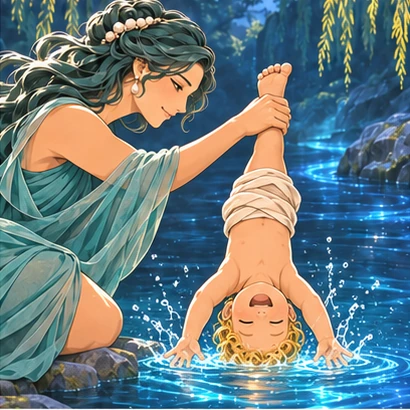
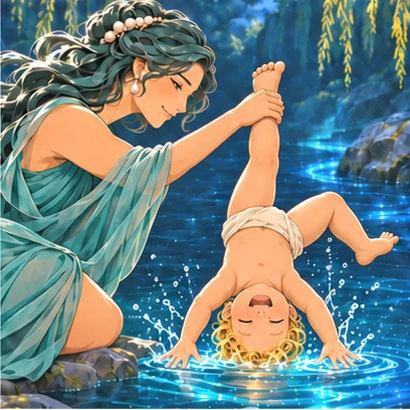
Replace heel-dipping scenes with fully visible two-leg anatomy

diff --git a/index.html b/index.html
@@ -1,4 +1,4 @@
 <!doctype html>
 <html lang="en" data-story-id="achilles-magic-heel"><head><meta charset="utf-8"><meta name="viewport" content="width=device-width,initial-scale=1,viewport-fit=cover"><meta name="theme-color" content="#f6f0e4"><meta name="description" content="Read Achilles: The Boy with the Magic Heel. A complete ten-chapter Greek myth adventure, with reflection and discussion questions."><title>Achilles · The Boy with the Magic Heel</title><link rel="manifest" href="./manifest.webmanifest"><link rel="icon" href="./assets/app-icon-192.png"><link rel="apple-touch-icon" href="./assets/app-icon-192.png"><link rel="stylesheet" href="./style.css"><script src="./app.js" defer></script><script src="./pwa.js" defer></script></head><body>
 <a class="skip" href="#story">이야기로 바로 가기</a><header id="floating-reader"><a class="brand" href="#">A<span> / </span>READING ROOM</a><div class="tools"><details id="chapter-menu"><summary>목차 <span>⌄</span></summary><nav aria-label="장별 목차"><a href="#chapter-1"><span>01</span> Chapter 1. A Very Special Baby</a><a href="#chapter-2"><span>02</span> Chapter 2. The Fastest Boy in Greece</a><a href="#chapter-3"><span>03</span> Chapter 3. A Friend Named Patroclus</a><a href="#chapter-4"><span>04</span> Chapter 4. A Fight with a King</a><a href="#chapter-5"><span>05</span> Chapter 5. The Sad News</a><a href="#chapter-6"><span>06</span> Chapter 6. A Broken Heart</a><a href="#chapter-7"><span>07</span> Chapter 7. The New Armor</a><a href="#chapter-8"><span>08</span> Chapter 8. Achilles and Hector</a><a href="#chapter-9"><span>09</span> Chapter 9. The One Weak Spot</a><a href="#chapter-10"><span>10</span> Chapter 10. A Hero to Remember</a><a href="#chapter-11"><span>11</span> What Can We Learn from Achilles?</a><a href="#chapter-12"><span>12</span> Let&#x27;s Talk! – A Little Chat with Your Teacher</a></nav></details><div class="font-tools"><button id="smaller" aria-label="글자 작게">A−</button><label class="sr-only" for="font-size">글자 크기</label><input id="font-size" type="range" min="14" max="50" value="19"><output id="font-value" for="font-size">19pt</output><button id="larger" aria-label="글자 크게">A+</button></div><button id="theme" aria-label="어두운 테마로 전환">◐</button><button id="install-app">설치</button></div><div class="progress" aria-hidden="true"><span id="progress"></span></div></header>
-<main><div class="cover"><div class="eyebrow">THE MYTHS WE REMEMBER <span>01 / GREECE</span></div><div class="cover-inner"><div class="medallion" aria-hidden="true">✦</div><p class="kicker">A GREEK MYTH ADVENTURE</p><h1>ACHILLES</h1><p class="subtitle">The Boy with<br>the Magic Heel</p><div class="ornament" aria-hidden="true">── ◇ ──</div><p class="intro">A story of strength, friendship,<br>and the heart of a hero.</p><a class="start" href="#chapter-1">이야기 읽기 <span>↓</span></a><a id="resume" hidden>읽던 곳에서 계속 읽기 →</a></div><div class="cover-foot"><span>10 CHAPTERS + REFLECTIONS</span><span>SCROLL TO BEGIN ↓</span></div></div><article id="story" aria-label="ACHILLES: The Boy with the Magic Heel"><section class="chapter" id="chapter-1"><div class="chapter-label">CHAPTER 01</div><h2>Chapter 1. A Very Special Baby</h2><p class="" id="ch01-p001">Long, long ago, in a land far away, there lived a king named Peleus.</p><figure class="story-scene" id="ch01-sc01"><img src="./assets/ch01-sc01.webp" alt="King Peleus in his ancient Greek palace, calm establishing portrait." width="410" height="410" loading="lazy" decoding="async"></figure><p class="" id="ch01-p002">One day, he had a baby boy.</p><figure class="story-scene" id="ch01-sc02"><img src="./assets/ch01-sc02.webp" alt="Peleus gently cradles his newborn son Achilles in an ivory wrap." width="410" height="410" loading="lazy" decoding="async"></figure><p class="" id="ch01-p003">His name was Achilles.</p><p class="" id="ch01-p004">But Achilles was not an ordinary baby.</p><p class="" id="ch01-p005">His dad was a king. His mom was Thetis, a sea goddess.</p><figure class="story-scene" id="ch01-sc03"><img src="./assets/ch01-sc03.webp" alt="Thetis with flowing dark teal hair and turquoise dress holds baby Achilles beside King Peleus." width="410" height="410" loading="lazy" decoding="async"></figure><p class="" id="ch01-p006">&quot;Look at my baby!&quot; said Thetis. &quot;He is so special!&quot;</p><figure class="story-scene" id="ch01-sc04"><img src="./assets/ch01-sc04.webp" alt="Thetis smiles lovingly down at her special golden-curled baby, close intimate view." width="410" height="410" loading="lazy" decoding="async"></figure><p class="" id="ch01-p007">She wanted her son to be safe and strong.</p><figure class="story-scene" id="ch01-sc05"><img src="./assets/ch01-sc05.webp" alt="Thetis looks protectively at her sleeping baby, determined to keep him safe." width="410" height="410" loading="lazy" decoding="async"></figure><p class="" id="ch01-p008">So, one day, she took him to a magic river called the River Styx.</p><figure class="story-scene" id="ch01-sc06"><img src="./assets/ch01-sc06.webp" alt="Thetis carries baby Achilles along the rocky bank of the mysterious glowing River Styx." width="410" height="410" loading="lazy" decoding="async"></figure><p class="" id="ch01-p009">&quot;This water will keep you safe,&quot; she said.</p><figure class="story-scene" id="ch01-sc07"><img src="./assets/ch01-sc07.webp" alt="At the river edge Thetis kneels with the baby, looks at the magical water with hope." width="410" height="410" loading="lazy" decoding="async"></figure><p class="" id="ch01-p010">She held Achilles by one heel and dipped him into the water.</p><p class="" id="ch01-p011">Splash!</p><p class="" id="ch01-p012">His body became safe from harm.</p><p class="" id="ch01-p013">But there was one little problem.</p><p class="" id="ch01-p014">The heel she held did not touch the magic water.</p><p class="" id="ch01-p015">It was his one weak spot.</p><p class="" id="ch01-p016">Thetis did not know that this tiny spot would be very important one day.</p></section><section class="chapter" id="chapter-2"><div class="chapter-label">CHAPTER 02</div><h2>Chapter 2. The Fastest Boy in Greece</h2><p class="" id="ch02-p001">Achilles grew bigger and stronger every day.</p><p class="" id="ch02-p002">He could run very fast.</p><p class="" id="ch02-p003">He could jump high.</p><p class="" id="ch02-p004">He could fight better than anyone else.</p><p class="" id="ch02-p005">&quot;Wow! He is so fast!&quot; people said.</p><p class="" id="ch02-p006">&quot;Look at him go!&quot;</p><p class="" id="ch02-p007">Achilles loved to win.</p><p class="" id="ch02-p008">He trained every day. He wanted to be the best.</p><p class="" id="ch02-p009">Soon, everyone knew his name.</p><p class="" id="ch02-p010">He became the greatest fighter in the Greek army.</p><p class="" id="ch02-p011">But Achilles had something even more special than his strength.</p><p class="" id="ch02-p012">He had a big heart.</p><p class="" id="ch02-p013">And he had a very good friend.</p></section><section class="chapter" id="chapter-3"><div class="chapter-label">CHAPTER 03</div><h2>Chapter 3. A Friend Named Patroclus</h2><p class="" id="ch03-p001">His friend&#x27;s name was Patroclus.</p><p class="" id="ch03-p002">They played together.</p><p class="" id="ch03-p003">They trained together.</p><p class="" id="ch03-p004">They laughed together.</p><p class="" id="ch03-p005">When Achilles was happy, Patroclus was happy, too.</p><p class="" id="ch03-p006">When Patroclus had a bad day, Achilles stayed by his side.</p><p class="" id="ch03-p007">&quot;You&#x27;re my best friend,&quot; said Patroclus.</p><p class="" id="ch03-p008">&quot;And you&#x27;re mine!&quot; said Achilles.</p><p class="" id="ch03-p009">They were like two brothers.</p><p class="" id="ch03-p010">One day, a big war began.</p><p class="" id="ch03-p011">It was called the Trojan War.</p><p class="" id="ch03-p012">The Greeks went to fight the people of Troy.</p><p class="" id="ch03-p013">Achilles and Patroclus went together.</p><p class="" id="ch03-p014">&quot;Stay close to me,&quot; said Achilles.</p><p class="" id="ch03-p015">&quot;Don&#x27;t worry!&quot; said Patroclus. &quot;We can do this!&quot;</p><p class="" id="ch03-p016">But this war would change their lives forever.</p></section><section class="chapter" id="chapter-4"><div class="chapter-label">CHAPTER 04</div><h2>Chapter 4. A Fight with a King</h2><p class="" id="ch04-p001">The Greek army had a king named Agamemnon.</p><p class="" id="ch04-p002">He was the leader of the army.</p><p class="" id="ch04-p003">But one day, he made Achilles very angry.</p><p class="" id="ch04-p004">He took a prize that belonged to Achilles.</p><p class="" id="ch04-p005">&quot;That is not fair!&quot; said Achilles.</p><p class="" id="ch04-p006">&quot;I will not fight anymore!&quot;</p><p class="" id="ch04-p007">He walked away from the battle.</p><p class="" id="ch04-p008">The other soldiers were worried.</p><p class="" id="ch04-p009">&quot;How can we win without Achilles?&quot; they asked.</p><p class="" id="ch04-p010">But Achilles would not listen.</p><p class="" id="ch04-p011">He was too angry.</p><p class="" id="ch04-p012">He sat in his tent and stayed away from the fight.</p><p class="" id="ch04-p013">Sometimes, even the strongest person can make a bad choice when angry.</p></section><section class="chapter" id="chapter-5"><div class="chapter-label">CHAPTER 05</div><h2>Chapter 5. The Sad News</h2><p class="" id="ch05-p001">The war went on.</p><p class="" id="ch05-p002">The Greeks were having a hard time.</p><p class="" id="ch05-p003">Patroclus went to see Achilles.</p><p class="" id="ch05-p004">&quot;Please,&quot; he said. &quot;Our friends need help.&quot;</p><p class="" id="ch05-p005">Achilles looked at him.</p><p class="" id="ch05-p006">&quot;I am still too angry to fight,&quot; he said.</p><p class="" id="ch05-p007">&quot;Then let me go,&quot; said Patroclus.</p><p class="" id="ch05-p008">He asked to wear Achilles&#x27; armor.</p><p class="" id="ch05-p009">Achilles thought for a moment.</p><p class="" id="ch05-p010">&quot;Be careful,&quot; he said. &quot;Come back safe.&quot;</p><p class="" id="ch05-p011">Patroclus put on the shiny armor.</p><p class="" id="ch05-p012">He went to the battle.</p><p class="" id="ch05-p013">But something terrible happened.</p><p class="" id="ch05-p014">A Trojan hero named Hector saw him.</p><p class="" id="ch05-p015">Hector thought Patroclus was Achilles.</p><p class="" id="ch05-p016">They fought.</p><p class="" id="ch05-p017">And Patroclus did not come back.</p><p class="" id="ch05-p018">He was gone.</p></section><section class="chapter" id="chapter-6"><div class="chapter-label">CHAPTER 06</div><h2>Chapter 6. A Broken Heart</h2><p class="" id="ch06-p001">When Achilles heard the news, he could not believe it.</p><p class="" id="ch06-p002">&quot;Patroclus? My best friend?&quot;</p><p class="" id="ch06-p003">He felt very sad.</p><p class="" id="ch06-p004">He cried and cried.</p><p class="" id="ch06-p005">&quot;My friend is gone,&quot; he said.</p><p class="" id="ch06-p006">He was angry with Hector.</p><p class="" id="ch06-p007">He was angry with himself, too.</p><p class="" id="ch06-p008">&quot;Why did I let him go?&quot; he asked.</p><p class="" id="ch06-p009">&quot;Why did I stay here?&quot;</p><p class="" id="ch06-p010">Achilles knew he could not bring his friend back.</p><p class="" id="ch06-p011">But he wanted to face Hector.</p><p class="" id="ch06-p012">This time, he would go back to the battle.</p></section><section class="chapter" id="chapter-7"><div class="chapter-label">CHAPTER 07</div><h2>Chapter 7. The New Armor</h2><p class="" id="ch07-p001">Achilles needed new armor.</p><p class="" id="ch07-p002">His old armor was gone.</p><p class="" id="ch07-p003">His mother, Thetis, went to ask Hephaestus for help.</p><p class="" id="ch07-p004">Hephaestus was the god who made things with fire and metal.</p><p class="" id="ch07-p005">He worked in a hot, bright forge.</p><p class="" id="ch07-p006">Clang! Clang! Clang!</p><p class="" id="ch07-p007">He made a new helmet.</p><p class="" id="ch07-p008">He made strong armor.</p><p class="" id="ch07-p009">And he made a beautiful shield.</p><p class="" id="ch07-p010">The shield was amazing!</p><p class="" id="ch07-p011">It showed the sun and the stars.</p><p class="" id="ch07-p012">It showed people dancing and working.</p><p class="" id="ch07-p013">It showed farms, towns, and happy families.</p><p class="" id="ch07-p014">It was like a whole world on one shield!</p><p class="" id="ch07-p015">&quot;Thank you, Mom,&quot; said Achilles.</p><p class="" id="ch07-p016">He put on his new armor.</p><p class="" id="ch07-p017">He was ready to fight.</p></section><section class="chapter" id="chapter-8"><div class="chapter-label">CHAPTER 08</div><h2>Chapter 8. Achilles and Hector</h2><p class="" id="ch08-p001">Outside the walls of Troy, Hector was waiting.</p><p class="" id="ch08-p002">He was a brave prince of Troy.</p><p class="" id="ch08-p003">He was a great fighter, too.</p><p class="" id="ch08-p004">Achilles looked at Hector.</p><p class="" id="ch08-p005">&quot;You took my friend away!&quot; he shouted.</p><p class="" id="ch08-p006">Hector stood tall.</p><p class="" id="ch08-p007">&quot;I will not run away!&quot; he said.</p><p class="" id="ch08-p008">The two heroes began to fight.</p><p class="" id="ch08-p009">Their swords went CLANG!</p><p class="" id="ch08-p010">Their feet moved fast.</p><p class="" id="ch08-p011">The fight was hard.</p><p class="" id="ch08-p012">At last, Achilles won.</p><p class="" id="ch08-p013">Hector fell.</p><p class="" id="ch08-p014">Achilles was still full of anger.</p><p class="" id="ch08-p015">He tied Hector&#x27;s body to his chariot and dragged it around the city.</p><p class="" id="ch08-p016">It was a sad and cruel end to the fight.</p><p class="" id="ch08-p017">Achilles had won, but his heart was not happy.</p><p class="" id="ch08-p018">His anger had taken control.</p></section><section class="chapter" id="chapter-9"><div class="chapter-label">CHAPTER 09</div><h2>Chapter 9. The One Weak Spot</h2><p class="" id="ch09-p001">The war was not over.</p><p class="" id="ch09-p002">Achilles was still the strongest fighter.</p><p class="" id="ch09-p003">But every hero has a story.</p><p class="" id="ch09-p004">And every story has an ending.</p><p class="" id="ch09-p005">One day, Paris, a prince of Troy, took his bow.</p><p class="" id="ch09-p006">He saw Achilles.</p><p class="" id="ch09-p007">He pulled back the string.</p><p class="" id="ch09-p008">Whoosh!</p><p class="" id="ch09-p009">The arrow flew through the air.</p><p class="" id="ch09-p010">It hit Achilles in the heel.</p><p class="" id="ch09-p011">His one weak spot!</p><p class="" id="ch09-p012">The magic river had made his body safe, but not that small part.</p><p class="" id="ch09-p013">Achilles fell.</p><p class="" id="ch09-p014">The great hero was gone.</p><p class="" id="ch09-p015">People were very sad.</p><p class="" id="ch09-p016">They remembered his strength.</p><p class="" id="ch09-p017">They remembered his brave heart.</p><p class="" id="ch09-p018">And they remembered his one weak spot.</p><p class="" id="ch09-p019">That is why we still say &quot;Achilles&#x27; heel&quot; today.</p><p class="" id="ch09-p020">It means a weak spot that someone has.</p></section><section class="chapter" id="chapter-10"><div class="chapter-label">CHAPTER 10</div><h2>Chapter 10. A Hero to Remember</h2><p class="" id="ch10-p001">Achilles knew that he had two choices.</p><p class="" id="ch10-p002">He could stay away from the war.</p><p class="" id="ch10-p003">He could live a long and quiet life.</p><p class="" id="ch10-p004">Or he could fight and become a great hero.</p><p class="" id="ch10-p005">But he might die young.</p><p class="" id="ch10-p006">Achilles chose to fight.</p><p class="" id="ch10-p007">He wanted people to remember his name.</p><p class="" id="ch10-p008">And they did!</p><p class="" id="ch10-p009">Even today, people tell stories about Achilles.</p><p class="" id="ch10-p010">They talk about his speed.</p><p class="" id="ch10-p011">They talk about his strength.</p><p class="" id="ch10-p012">They talk about his best friend.</p><p class="" id="ch10-p013">They talk about his anger and his brave heart.</p><p class="" id="ch10-p014">But most of all, they remember that even the greatest hero was not perfect.</p><p class="" id="ch10-p015">And that is what makes his story special.</p><p class="" id="ch10-p016">The End.</p></section><section class="chapter" id="chapter-11"><div class="chapter-label">AFTER THE STORY</div><h2>What Can We Learn from Achilles?</h2><p class="" id="ch11-p001">Achilles was strong, but he also made mistakes.</p><p class="" id="ch11-p002">His story teaches us some big lessons.</p><p class="lesson" id="ch11-p003">1. Friends are special.</p><p class="" id="ch11-p004">A good friend stays with you in good times and bad times. We should care for our friends and help them when they need us.</p><p class="lesson" id="ch11-p005">2. Anger can cause trouble.</p><p class="" id="ch11-p006">Achilles was so angry that he stopped helping his friends. Before we act, we should stop, take a breath, and think.</p><p class="lesson" id="ch11-p007">3. Nobody is perfect.</p><p class="" id="ch11-p008">Even the strongest hero has a weak spot. We all have things we are good at and things we need to learn.</p><p class="lesson" id="ch11-p009">4. Being brave does not mean being perfect.</p><p class="" id="ch11-p010">A brave person can feel sad, scared, or upset. What matters is learning from mistakes and trying to do better.</p></section><section class="chapter" id="chapter-12"><div class="chapter-label">AFTER THE STORY</div><h2>Let&#x27;s Talk! – A Little Chat with Your Teacher</h2><p class="lesson" id="ch12-p001">1. About Friendship</p><p class="question" id="ch12-p002">- Why was Patroclus special to Achilles?</p><p class="question" id="ch12-p003">- What makes someone a good friend?</p><p class="question" id="ch12-p004">- How can you help a friend who feels sad?</p><p class="lesson" id="ch12-p005">2. About Feelings</p><p class="question" id="ch12-p006">- Why was Achilles angry with Agamemnon?</p><p class="question" id="ch12-p007">- Have you ever been so angry that you wanted to stop playing?</p><p class="question" id="ch12-p008">- What can you do when you feel angry?</p><p class="lesson" id="ch12-p009">3. About Being a Hero</p><p class="question" id="ch12-p010">- Was Achilles always right?</p><p class="question" id="ch12-p011">- Can a person be brave and still make mistakes?</p><p class="question" id="ch12-p012">- What makes someone a real hero?</p><p class="lesson" id="ch12-p013">4. Imagine You Are Achilles!</p><p class="question" id="ch12-p014">- Would you choose a long, quiet life or a short, exciting life?</p><p class="question" id="ch12-p015">- If you had a magic shield, what would you put on it?</p><p class="question" id="ch12-p016">- If you could have one superpower, what would it be?</p></section></article><div class="closing"><span>✦</span><p>Every hero has a story.<br>Thank you for reading.</p><a href="#">처음으로 ↑</a></div></main><footer>ACHILLES · A GREEK MYTH ADVENTURE<br><small>제공된 영어 원문 전문</small></footer><dialog id="install-help" aria-labelledby="install-title"><h2 id="install-title">독서 앱으로 설치</h2><p id="install-instructions"></p><p>설치 후 홈 화면의 아이콘으로 열어 주세요.</p><button id="read-fullscreen" hidden>전체화면으로 읽기</button><form method="dialog"><button>닫기</button></form></dialog></body></html>
+<main><div class="cover"><div class="eyebrow">THE MYTHS WE REMEMBER <span>01 / GREECE</span></div><div class="cover-inner"><div class="medallion" aria-hidden="true">✦</div><p class="kicker">A GREEK MYTH ADVENTURE</p><h1>ACHILLES</h1><p class="subtitle">The Boy with<br>the Magic Heel</p><div class="ornament" aria-hidden="true">── ◇ ──</div><p class="intro">A story of strength, friendship,<br>and the heart of a hero.</p><a class="start" href="#chapter-1">이야기 읽기 <span>↓</span></a><a id="resume" hidden>읽던 곳에서 계속 읽기 →</a></div><div class="cover-foot"><span>10 CHAPTERS + REFLECTIONS</span><span>SCROLL TO BEGIN ↓</span></div></div><article id="story" aria-label="ACHILLES: The Boy with the Magic Heel"><section class="chapter" id="chapter-1"><div class="chapter-label">CHAPTER 01</div><h2>Chapter 1. A Very Special Baby</h2><p class="" id="ch01-p001">Long, long ago, in a land far away, there lived a king named Peleus.</p><figure class="story-scene" id="ch01-sc01"><img src="./assets/ch01-sc01.webp" alt="King Peleus in his ancient Greek palace, calm establishing portrait." width="410" height="410" loading="lazy" decoding="async"></figure><p class="" id="ch01-p002">One day, he had a baby boy.</p><figure class="story-scene" id="ch01-sc02"><img src="./assets/ch01-sc02.webp" alt="Peleus gently cradles his newborn son Achilles in an ivory wrap." width="410" height="410" loading="lazy" decoding="async"></figure><p class="" id="ch01-p003">His name was Achilles.</p><p class="" id="ch01-p004">But Achilles was not an ordinary baby.</p><p class="" id="ch01-p005">His dad was a king. His mom was Thetis, a sea goddess.</p><figure class="story-scene" id="ch01-sc03"><img src="./assets/ch01-sc03.webp" alt="Thetis with flowing dark teal hair and turquoise dress holds baby Achilles beside King Peleus." width="410" height="410" loading="lazy" decoding="async"></figure><p class="" id="ch01-p006">&quot;Look at my baby!&quot; said Thetis. &quot;He is so special!&quot;</p><figure class="story-scene" id="ch01-sc04"><img src="./assets/ch01-sc04.webp" alt="Thetis smiles lovingly down at her special golden-curled baby, close intimate view." width="410" height="410" loading="lazy" decoding="async"></figure><p class="" id="ch01-p007">She wanted her son to be safe and strong.</p><figure class="story-scene" id="ch01-sc05"><img src="./assets/ch01-sc05.webp" alt="Thetis looks protectively at her sleeping baby, determined to keep him safe." width="410" height="410" loading="lazy" decoding="async"></figure><p class="" id="ch01-p008">So, one day, she took him to a magic river called the River Styx.</p><figure class="story-scene" id="ch01-sc06"><img src="./assets/ch01-sc06.webp" alt="Thetis carries baby Achilles along the rocky bank of the mysterious glowing River Styx." width="410" height="410" loading="lazy" decoding="async"></figure><p class="" id="ch01-p009">&quot;This water will keep you safe,&quot; she said.</p><figure class="story-scene" id="ch01-sc07"><img src="./assets/ch01-sc07.webp" alt="At the river edge Thetis kneels with the baby, looks at the magical water with hope." width="410" height="410" loading="lazy" decoding="async"></figure><p class="" id="ch01-p010">She held Achilles by one heel and dipped him into the water.</p><figure class="story-scene" id="ch01-sc08"><img src="./assets/ch01-sc08.webp" alt="Thetis holds the baby securely by ONE heel and dips his body into the shallow luminous magical water, clear side view." width="410" height="410" loading="lazy" decoding="async"></figure><p class="" id="ch01-p011">Splash!</p><figure class="story-scene" id="ch01-sc09"><img src="./assets/ch01-sc09.webp" alt="Close view of water splashing gently around baby Achilles during the magical dip, his held heel above water." width="410" height="410" loading="lazy" decoding="async"></figure><p class="" id="ch01-p012">His body became safe from harm.</p><p class="" id="ch01-p013">But there was one little problem.</p><p class="" id="ch01-p014">The heel she held did not touch the magic water.</p><p class="" id="ch01-p015">It was his one weak spot.</p><p class="" id="ch01-p016">Thetis did not know that this tiny spot would be very important one day.</p></section><section class="chapter" id="chapter-2"><div class="chapter-label">CHAPTER 02</div><h2>Chapter 2. The Fastest Boy in Greece</h2><p class="" id="ch02-p001">Achilles grew bigger and stronger every day.</p><p class="" id="ch02-p002">He could run very fast.</p><p class="" id="ch02-p003">He could jump high.</p><p class="" id="ch02-p004">He could fight better than anyone else.</p><p class="" id="ch02-p005">&quot;Wow! He is so fast!&quot; people said.</p><p class="" id="ch02-p006">&quot;Look at him go!&quot;</p><p class="" id="ch02-p007">Achilles loved to win.</p><p class="" id="ch02-p008">He trained every day. He wanted to be the best.</p><p class="" id="ch02-p009">Soon, everyone knew his name.</p><p class="" id="ch02-p010">He became the greatest fighter in the Greek army.</p><p class="" id="ch02-p011">But Achilles had something even more special than his strength.</p><p class="" id="ch02-p012">He had a big heart.</p><p class="" id="ch02-p013">And he had a very good friend.</p></section><section class="chapter" id="chapter-3"><div class="chapter-label">CHAPTER 03</div><h2>Chapter 3. A Friend Named Patroclus</h2><p class="" id="ch03-p001">His friend&#x27;s name was Patroclus.</p><p class="" id="ch03-p002">They played together.</p><p class="" id="ch03-p003">They trained together.</p><p class="" id="ch03-p004">They laughed together.</p><p class="" id="ch03-p005">When Achilles was happy, Patroclus was happy, too.</p><p class="" id="ch03-p006">When Patroclus had a bad day, Achilles stayed by his side.</p><p class="" id="ch03-p007">&quot;You&#x27;re my best friend,&quot; said Patroclus.</p><p class="" id="ch03-p008">&quot;And you&#x27;re mine!&quot; said Achilles.</p><p class="" id="ch03-p009">They were like two brothers.</p><p class="" id="ch03-p010">One day, a big war began.</p><p class="" id="ch03-p011">It was called the Trojan War.</p><p class="" id="ch03-p012">The Greeks went to fight the people of Troy.</p><p class="" id="ch03-p013">Achilles and Patroclus went together.</p><p class="" id="ch03-p014">&quot;Stay close to me,&quot; said Achilles.</p><p class="" id="ch03-p015">&quot;Don&#x27;t worry!&quot; said Patroclus. &quot;We can do this!&quot;</p><p class="" id="ch03-p016">But this war would change their lives forever.</p></section><section class="chapter" id="chapter-4"><div class="chapter-label">CHAPTER 04</div><h2>Chapter 4. A Fight with a King</h2><p class="" id="ch04-p001">The Greek army had a king named Agamemnon.</p><p class="" id="ch04-p002">He was the leader of the army.</p><p class="" id="ch04-p003">But one day, he made Achilles very angry.</p><p class="" id="ch04-p004">He took a prize that belonged to Achilles.</p><p class="" id="ch04-p005">&quot;That is not fair!&quot; said Achilles.</p><p class="" id="ch04-p006">&quot;I will not fight anymore!&quot;</p><p class="" id="ch04-p007">He walked away from the battle.</p><p class="" id="ch04-p008">The other soldiers were worried.</p><p class="" id="ch04-p009">&quot;How can we win without Achilles?&quot; they asked.</p><p class="" id="ch04-p010">But Achilles would not listen.</p><p class="" id="ch04-p011">He was too angry.</p><p class="" id="ch04-p012">He sat in his tent and stayed away from the fight.</p><p class="" id="ch04-p013">Sometimes, even the strongest person can make a bad choice when angry.</p></section><section class="chapter" id="chapter-5"><div class="chapter-label">CHAPTER 05</div><h2>Chapter 5. The Sad News</h2><p class="" id="ch05-p001">The war went on.</p><p class="" id="ch05-p002">The Greeks were having a hard time.</p><p class="" id="ch05-p003">Patroclus went to see Achilles.</p><p class="" id="ch05-p004">&quot;Please,&quot; he said. &quot;Our friends need help.&quot;</p><p class="" id="ch05-p005">Achilles looked at him.</p><p class="" id="ch05-p006">&quot;I am still too angry to fight,&quot; he said.</p><p class="" id="ch05-p007">&quot;Then let me go,&quot; said Patroclus.</p><p class="" id="ch05-p008">He asked to wear Achilles&#x27; armor.</p><p class="" id="ch05-p009">Achilles thought for a moment.</p><p class="" id="ch05-p010">&quot;Be careful,&quot; he said. &quot;Come back safe.&quot;</p><p class="" id="ch05-p011">Patroclus put on the shiny armor.</p><p class="" id="ch05-p012">He went to the battle.</p><p class="" id="ch05-p013">But something terrible happened.</p><p class="" id="ch05-p014">A Trojan hero named Hector saw him.</p><p class="" id="ch05-p015">Hector thought Patroclus was Achilles.</p><p class="" id="ch05-p016">They fought.</p><p class="" id="ch05-p017">And Patroclus did not come back.</p><p class="" id="ch05-p018">He was gone.</p></section><section class="chapter" id="chapter-6"><div class="chapter-label">CHAPTER 06</div><h2>Chapter 6. A Broken Heart</h2><p class="" id="ch06-p001">When Achilles heard the news, he could not believe it.</p><p class="" id="ch06-p002">&quot;Patroclus? My best friend?&quot;</p><p class="" id="ch06-p003">He felt very sad.</p><p class="" id="ch06-p004">He cried and cried.</p><p class="" id="ch06-p005">&quot;My friend is gone,&quot; he said.</p><p class="" id="ch06-p006">He was angry with Hector.</p><p class="" id="ch06-p007">He was angry with himself, too.</p><p class="" id="ch06-p008">&quot;Why did I let him go?&quot; he asked.</p><p class="" id="ch06-p009">&quot;Why did I stay here?&quot;</p><p class="" id="ch06-p010">Achilles knew he could not bring his friend back.</p><p class="" id="ch06-p011">But he wanted to face Hector.</p><p class="" id="ch06-p012">This time, he would go back to the battle.</p></section><section class="chapter" id="chapter-7"><div class="chapter-label">CHAPTER 07</div><h2>Chapter 7. The New Armor</h2><p class="" id="ch07-p001">Achilles needed new armor.</p><p class="" id="ch07-p002">His old armor was gone.</p><p class="" id="ch07-p003">His mother, Thetis, went to ask Hephaestus for help.</p><p class="" id="ch07-p004">Hephaestus was the god who made things with fire and metal.</p><p class="" id="ch07-p005">He worked in a hot, bright forge.</p><p class="" id="ch07-p006">Clang! Clang! Clang!</p><p class="" id="ch07-p007">He made a new helmet.</p><p class="" id="ch07-p008">He made strong armor.</p><p class="" id="ch07-p009">And he made a beautiful shield.</p><p class="" id="ch07-p010">The shield was amazing!</p><p class="" id="ch07-p011">It showed the sun and the stars.</p><p class="" id="ch07-p012">It showed people dancing and working.</p><p class="" id="ch07-p013">It showed farms, towns, and happy families.</p><p class="" id="ch07-p014">It was like a whole world on one shield!</p><p class="" id="ch07-p015">&quot;Thank you, Mom,&quot; said Achilles.</p><p class="" id="ch07-p016">He put on his new armor.</p><p class="" id="ch07-p017">He was ready to fight.</p></section><section class="chapter" id="chapter-8"><div class="chapter-label">CHAPTER 08</div><h2>Chapter 8. Achilles and Hector</h2><p class="" id="ch08-p001">Outside the walls of Troy, Hector was waiting.</p><p class="" id="ch08-p002">He was a brave prince of Troy.</p><p class="" id="ch08-p003">He was a great fighter, too.</p><p class="" id="ch08-p004">Achilles looked at Hector.</p><p class="" id="ch08-p005">&quot;You took my friend away!&quot; he shouted.</p><p class="" id="ch08-p006">Hector stood tall.</p><p class="" id="ch08-p007">&quot;I will not run away!&quot; he said.</p><p class="" id="ch08-p008">The two heroes began to fight.</p><p class="" id="ch08-p009">Their swords went CLANG!</p><p class="" id="ch08-p010">Their feet moved fast.</p><p class="" id="ch08-p011">The fight was hard.</p><p class="" id="ch08-p012">At last, Achilles won.</p><p class="" id="ch08-p013">Hector fell.</p><p class="" id="ch08-p014">Achilles was still full of anger.</p><p class="" id="ch08-p015">He tied Hector&#x27;s body to his chariot and dragged it around the city.</p><p class="" id="ch08-p016">It was a sad and cruel end to the fight.</p><p class="" id="ch08-p017">Achilles had won, but his heart was not happy.</p><p class="" id="ch08-p018">His anger had taken control.</p></section><section class="chapter" id="chapter-9"><div class="chapter-label">CHAPTER 09</div><h2>Chapter 9. The One Weak Spot</h2><p class="" id="ch09-p001">The war was not over.</p><p class="" id="ch09-p002">Achilles was still the strongest fighter.</p><p class="" id="ch09-p003">But every hero has a story.</p><p class="" id="ch09-p004">And every story has an ending.</p><p class="" id="ch09-p005">One day, Paris, a prince of Troy, took his bow.</p><p class="" id="ch09-p006">He saw Achilles.</p><p class="" id="ch09-p007">He pulled back the string.</p><p class="" id="ch09-p008">Whoosh!</p><p class="" id="ch09-p009">The arrow flew through the air.</p><p class="" id="ch09-p010">It hit Achilles in the heel.</p><p class="" id="ch09-p011">His one weak spot!</p><p class="" id="ch09-p012">The magic river had made his body safe, but not that small part.</p><p class="" id="ch09-p013">Achilles fell.</p><p class="" id="ch09-p014">The great hero was gone.</p><p class="" id="ch09-p015">People were very sad.</p><p class="" id="ch09-p016">They remembered his strength.</p><p class="" id="ch09-p017">They remembered his brave heart.</p><p class="" id="ch09-p018">And they remembered his one weak spot.</p><p class="" id="ch09-p019">That is why we still say &quot;Achilles&#x27; heel&quot; today.</p><p class="" id="ch09-p020">It means a weak spot that someone has.</p></section><section class="chapter" id="chapter-10"><div class="chapter-label">CHAPTER 10</div><h2>Chapter 10. A Hero to Remember</h2><p class="" id="ch10-p001">Achilles knew that he had two choices.</p><p class="" id="ch10-p002">He could stay away from the war.</p><p class="" id="ch10-p003">He could live a long and quiet life.</p><p class="" id="ch10-p004">Or he could fight and become a great hero.</p><p class="" id="ch10-p005">But he might die young.</p><p class="" id="ch10-p006">Achilles chose to fight.</p><p class="" id="ch10-p007">He wanted people to remember his name.</p><p class="" id="ch10-p008">And they did!</p><p class="" id="ch10-p009">Even today, people tell stories about Achilles.</p><p class="" id="ch10-p010">They talk about his speed.</p><p class="" id="ch10-p011">They talk about his strength.</p><p class="" id="ch10-p012">They talk about his best friend.</p><p class="" id="ch10-p013">They talk about his anger and his brave heart.</p><p class="" id="ch10-p014">But most of all, they remember that even the greatest hero was not perfect.</p><p class="" id="ch10-p015">And that is what makes his story special.</p><p class="" id="ch10-p016">The End.</p></section><section class="chapter" id="chapter-11"><div class="chapter-label">AFTER THE STORY</div><h2>What Can We Learn from Achilles?</h2><p class="" id="ch11-p001">Achilles was strong, but he also made mistakes.</p><p class="" id="ch11-p002">His story teaches us some big lessons.</p><p class="lesson" id="ch11-p003">1. Friends are special.</p><p class="" id="ch11-p004">A good friend stays with you in good times and bad times. We should care for our friends and help them when they need us.</p><p class="lesson" id="ch11-p005">2. Anger can cause trouble.</p><p class="" id="ch11-p006">Achilles was so angry that he stopped helping his friends. Before we act, we should stop, take a breath, and think.</p><p class="lesson" id="ch11-p007">3. Nobody is perfect.</p><p class="" id="ch11-p008">Even the strongest hero has a weak spot. We all have things we are good at and things we need to learn.</p><p class="lesson" id="ch11-p009">4. Being brave does not mean being perfect.</p><p class="" id="ch11-p010">A brave person can feel sad, scared, or upset. What matters is learning from mistakes and trying to do better.</p></section><section class="chapter" id="chapter-12"><div class="chapter-label">AFTER THE STORY</div><h2>Let&#x27;s Talk! – A Little Chat with Your Teacher</h2><p class="lesson" id="ch12-p001">1. About Friendship</p><p class="question" id="ch12-p002">- Why was Patroclus special to Achilles?</p><p class="question" id="ch12-p003">- What makes someone a good friend?</p><p class="question" id="ch12-p004">- How can you help a friend who feels sad?</p><p class="lesson" id="ch12-p005">2. About Feelings</p><p class="question" id="ch12-p006">- Why was Achilles angry with Agamemnon?</p><p class="question" id="ch12-p007">- Have you ever been so angry that you wanted to stop playing?</p><p class="question" id="ch12-p008">- What can you do when you feel angry?</p><p class="lesson" id="ch12-p009">3. About Being a Hero</p><p class="question" id="ch12-p010">- Was Achilles always right?</p><p class="question" id="ch12-p011">- Can a person be brave and still make mistakes?</p><p class="question" id="ch12-p012">- What makes someone a real hero?</p><p class="lesson" id="ch12-p013">4. Imagine You Are Achilles!</p><p class="question" id="ch12-p014">- Would you choose a long, quiet life or a short, exciting life?</p><p class="question" id="ch12-p015">- If you had a magic shield, what would you put on it?</p><p class="question" id="ch12-p016">- If you could have one superpower, what would it be?</p></section></article><div class="closing"><span>✦</span><p>Every hero has a story.<br>Thank you for reading.</p><a href="#">처음으로 ↑</a></div></main><footer>ACHILLES · A GREEK MYTH ADVENTURE<br><small>제공된 영어 원문 전문</small></footer><dialog id="install-help" aria-labelledby="install-title"><h2 id="install-title">독서 앱으로 설치</h2><p id="install-instructions"></p><p>설치 후 홈 화면의 아이콘으로 열어 주세요.</p><button id="read-fullscreen" hidden>전체화면으로 읽기</button><form method="dialog"><button>닫기</button></form></dialog></body></html>

diff --git a/sw.js b/sw.js
@@ -1,1 +1,1 @@
-const CACHE='achilles-reader-4111b1830a67';const FILES=["./", "./index.html", "./style.css", "./app.js", "./pwa.js", "./manifest.webmanifest", "./assets/app-icon-192.png", "./assets/app-icon-512.png", "./assets/ch01-sc01.webp", "./assets/ch01-sc02.webp", "./assets/ch01-sc03.webp", "./assets/ch01-sc04.webp", "./assets/ch01-sc05.webp", "./assets/ch01-sc06.webp", "./assets/ch01-sc07.webp"];self.addEventListener('install',e=>e.waitUntil(caches.open(CACHE).then(c=>c.addAll(FILES)).then(()=>self.skipWaiting())));self.addEventListener('activate',e=>e.waitUntil(caches.keys().then(keys=>Promise.all(keys.filter(k=>k.startsWith('achilles-reader-')&&k!==CACHE).map(k=>caches.delete(k)))).then(()=>self.clients.claim())));self.addEventListener('fetch',e=>{if(e.request.method!=='GET'||new URL(e.request.url).origin!==self.location.origin)return;e.respondWith(fetch(e.request).then(r=>{if(r.ok){const copy=r.clone();caches.open(CACHE).then(c=>c.put(e.request,copy))}return r}).catch(()=>caches.match(e.request).then(r=>r||(e.request.mode==='navigate'?caches.match('./index.html'):Response.error()))))});
+const CACHE='achilles-reader-ba2fc0b4a812';const FILES=["./", "./index.html", "./style.css", "./app.js", "./pwa.js", "./manifest.webmanifest", "./assets/app-icon-192.png", "./assets/app-icon-512.png", "./assets/ch01-sc01.webp", "./assets/ch01-sc02.webp", "./assets/ch01-sc03.webp", "./assets/ch01-sc04.webp", "./assets/ch01-sc05.webp", "./assets/ch01-sc06.webp", "./assets/ch01-sc07.webp", "./assets/ch01-sc08.webp", "./assets/ch01-sc09.webp"];self.addEventListener('install',e=>e.waitUntil(caches.open(CACHE).then(c=>c.addAll(FILES)).then(()=>self.skipWaiting())));self.addEventListener('activate',e=>e.waitUntil(caches.keys().then(keys=>Promise.all(keys.filter(k=>k.startsWith('achilles-reader-')&&k!==CACHE).map(k=>caches.delete(k)))).then(()=>self.clients.claim())));self.addEventListener('fetch',e=>{if(e.request.method!=='GET'||new URL(e.request.url).origin!==self.location.origin)return;e.respondWith(fetch(e.request).then(r=>{if(r.ok){const copy=r.clone();caches.open(CACHE).then(c=>c.put(e.request,copy))}return r}).catch(()=>caches.match(e.request).then(r=>r||(e.request.mode==='navigate'?caches.match('./index.html'):Response.error()))))});
